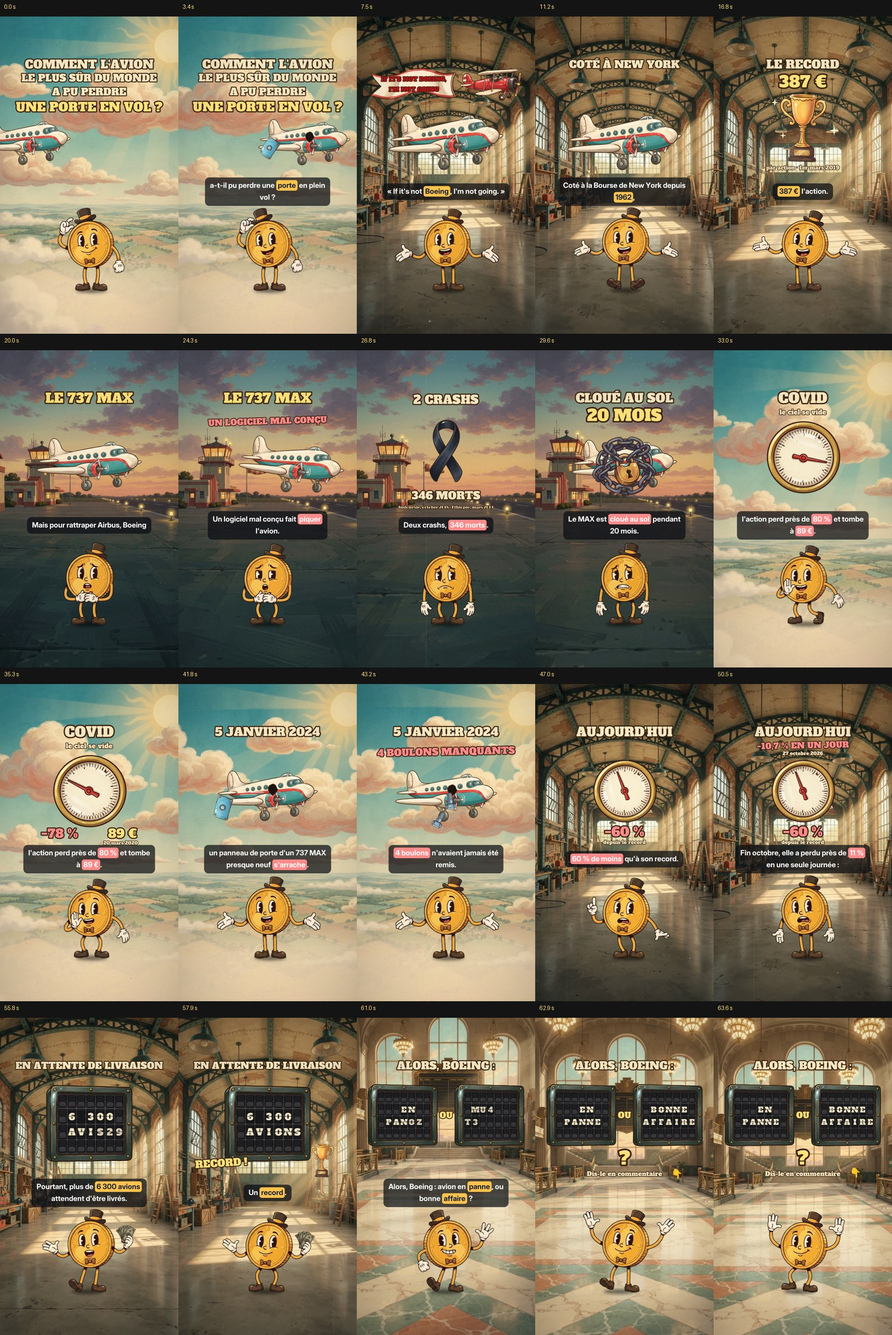
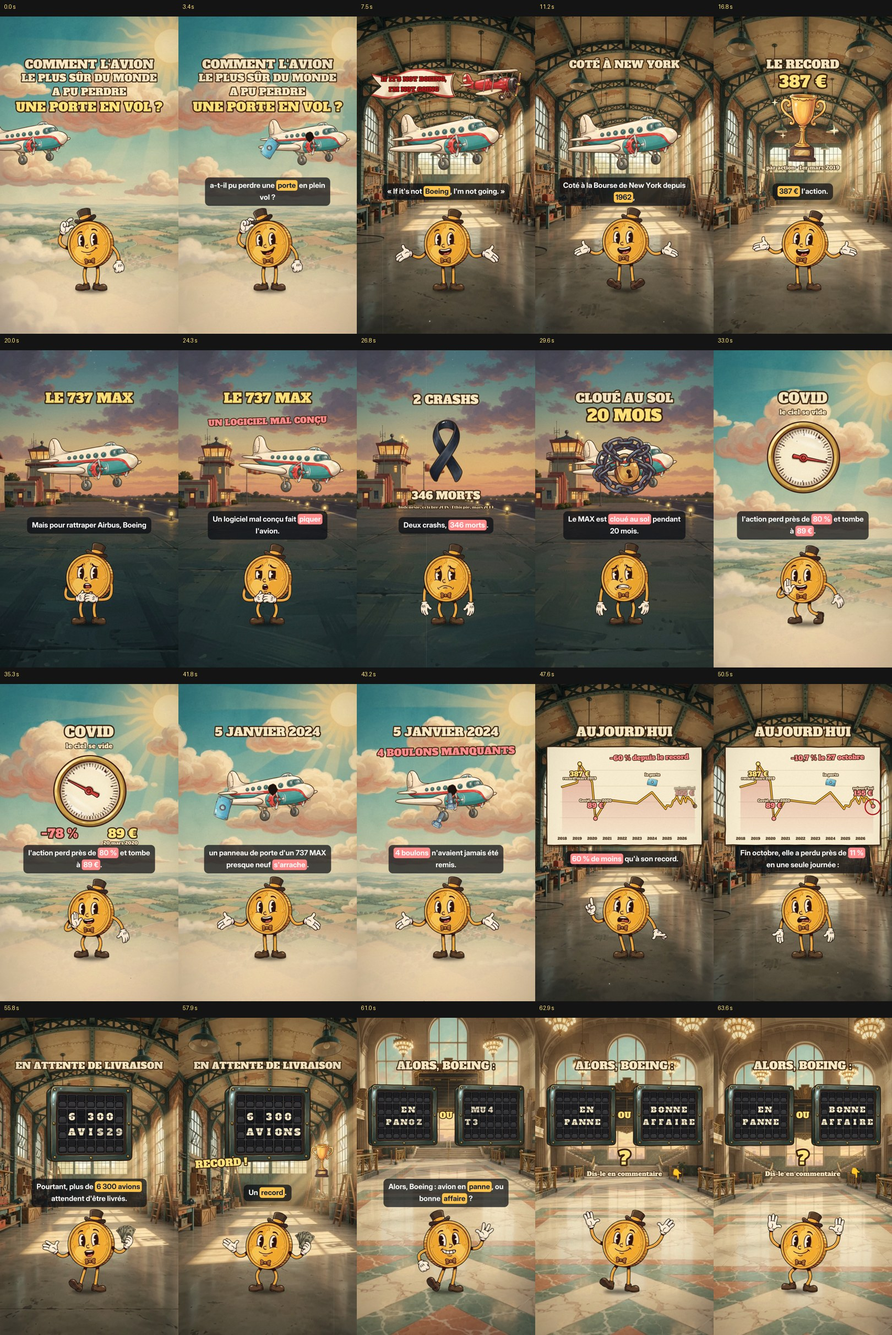
Boeing : courbe du cours 2017-2026 dans la scène « Aujourd'hui »
Claude-Session: https://claude.ai/code/session_01VFT2ZKYV9NwmFvCsfcTKi7

Changed region(s): [[0.5864, 0.495, 1.0, 0.7116]]

diff --git a/episodes/2026-11-10_boeing/video_col.py b/episodes/2026-11-10_boeing/video_col.py
@@ -277,19 +277,69 @@ def b_ciel(cv, c, t, k):
                 bx = hx-60+40*i-90*kk; by = hy+40+430*kk*kk
                 if by < 990: prop(c, 'boulon', bx, by, h=105, rot=5*kk+i, shadow=False, a=1-ent(by-900, 80))
             if t > 43.6: paint(c, "retirés à l'usine, jamais remis", 540, 900, 30, a=ent(t-43.6, .3), fam='Limelight')
+# cours de Boeing en dollars (clôtures non ajustées) : fins d'année 2017-2019 et 2020-2024, record et plus bas Covid, puis fins de mois 2025-2026
+M = lambda y, m, d=28: y+(m-1)/12+(d-1)/365
+BA = [(M(2017, 12), 294.91), (M(2018, 12), 322.50), (M(2019, 3, 1), 440.62), (M(2019, 12), 325.76), (M(2020, 3, 20), 95.01), (M(2020, 12), 214.06),
+      (M(2021, 12), 201.32), (M(2022, 12), 190.49), (M(2023, 12), 260.66), (M(2024, 11), 155.44), (M(2024, 12), 177.00)]
+BA += [(M(2025, m), v) for m, v in enumerate([176.52, 174.63, 170.55, 183.24, 207.32, 209.53, 221.84, 234.68, 215.83, 201.02, 189.00, 217.12], 1)]
+BA += [(M(2026, m), v) for m, v in enumerate([233.72, 227.53, 199.03, 229.03, 231.15, 216.47, 216.14, 207.78, 186.05], 1)]
+BA += [(M(2026, 10, 26), 188.31), (M(2026, 10, 27), 168.18), (M(2026, 10, 30), 171.55), (M(2026, 11, 6), 173.40)]
+CX0, CX1, CY0, CY1 = 150, 975, 455, 905
+def cxy(d, v): return CX0+(d-2017.85)/(2026.95-2017.85)*(CX1-CX0), CY1-v/470*(CY1-CY0)
+def ba_at(d):
+    for (d0, v0), (d1, v1) in zip(BA, BA[1:]):
+        if d0 <= d <= d1: return v0+(v1-v0)*(d-d0)/(d1-d0)
+    return BA[-1][1]
+def chart(c, t, t0, dx=0.0):
+    """carte de papier : la courbe du cours se trace de fin 2017 à aujourd'hui, avec les repères de l'histoire"""
+    k = t-t0
+    if k <= 0: return
+    sc = back(k/.4); c.save(); c.translate(540+dx, 680); c.scale(sc, sc); c.translate(-540, -680)
+    rng = np.random.default_rng(int(t*12)); c.new_path(); x0, y0, x1, y1 = 70, 380, 1010, 975
+    pts = [(x0+(x1-x0)*i/20, y0+rng.normal(0, 1)) for i in range(21)]+[(x1+rng.normal(0, 1), y0+(y1-y0)*i/12) for i in range(1, 13)]
+    pts += [(x1-(x1-x0)*i/20, y1+rng.normal(0, 1)) for i in range(1, 21)]+[(x0+rng.normal(0, 1), y1-(y1-y0)*i/12) for i in range(1, 12)]
+    c.move_to(pts[0][0]+10, pts[0][1]+14); [c.line_to(p[0]+10, p[1]+14) for p in pts[1:]]; c.close_path(); col(c, '000000', .35); c.fill()
+    c.move_to(*pts[0]); [c.line_to(*p) for p in pts[1:]]; c.close_path(); col(c, 'F7ECCF'); c.fill_preserve(); c.set_line_width(7); col(c, BROWN); c.stroke()
+    for v in (100, 200, 300, 400):                                   # graduations discrètes
+        y = cxy(2018, v)[1]; c.move_to(CX0, y); c.line_to(CX1, y); c.set_line_width(2); col(c, 'C9B48A', .6); c.stroke()
+    for yr in range(2018, 2027):
+        x = cxy(yr, 0)[0]; c.select_font_face('Alfa Slab One', 0, 0); c.set_font_size(22); e = c.text_extents(str(yr))
+        c.move_to(x-e.x_advance/2, CY1+38); c.show_text(str(yr)) if False else None
+        c.move_to(x-e.x_advance/2, CY1+38); c.text_path(str(yr)); col(c, BROWN, .85); c.fill()
+    dend = 2017.85+(2026.86-2017.85)*inout(k/2.9)                    # la courbe avance à vitesse régulière dans le temps
+    path = [cxy(d, v) for d, v in BA if d <= dend]+[cxy(dend, ba_at(dend))]
+    c.move_to(path[0][0], CY1); [c.line_to(*p) for p in path]; c.line_to(path[-1][0], CY1); c.close_path()
+    g = cairo.LinearGradient(0, CY0, 0, CY1); g.add_color_stop_rgba(0, .70, .09, .11, .30); g.add_color_stop_rgba(1, .70, .09, .11, .04); c.set_source(g); c.fill()
+    for wdt, colr in ((13, BROWN), (7, 'F2B82E')):
+        c.move_to(*path[0]); [c.line_to(*p) for p in path]; c.set_line_width(wdt); c.set_line_join(cairo.LINE_JOIN_ROUND); c.set_line_cap(cairo.LINE_CAP_ROUND); col(c, colr); c.stroke()
+    c.arc(*path[-1], 11, 0, 2*math.pi); col(c, 'FFF6C8'); c.fill_preserve(); c.set_line_width(4); col(c, BROWN); c.stroke()
+    def mark(d, v, lab, sub, colr, dy, tt):
+        if dend < d or t < tt: return
+        x, y = cxy(d, v); u = ent(t-tt, .3)
+        c.arc(x, y, 12*u, 0, 2*math.pi); col(c, colr); c.fill_preserve(); c.set_line_width(4); col(c, BROWN); c.stroke()
+        c.move_to(x, y+dy*.25); c.line_to(x, y+dy*.62); c.set_line_width(3); col(c, BROWN, u); c.stroke()
+        lx = min(x, 905)
+        paint(c, lab, lx, y+dy, 40, colr, a=u)
+        if sub: paint(c, sub, lx, y+dy+(26 if dy > 0 else -30), 21, CREAM, a=u)
+    D = lambda d: t0+2.9*0+(d-2017.85)/(2026.86-2017.85)*2.9
+    mark(M(2019, 3, 1), 440.62, f"387{NB}€", "record, mars 2019", YEL, 62, t0+.45)
+    mark(M(2020, 3, 20), 95.01, f"89{NB}€", "Covid, mars 2020", PINK, -78, t0+.75)
+    if dend > 2024.02 and t > t0+1.6:
+        x, y = cxy(2024.02, ba_at(2024.02)); prop(c, 'porte', x, y-62, h=56, k=t-t0-1.6, rot=-.2, shadow=False)
+        paint(c, "la porte", x, y-110, 22, CREAM, a=ent(t-t0-1.7, .3))
+    mark(M(2026, 11, 6), 173.40, f"155{NB}€", "aujourd'hui", PINK, -78, t0+2.95)
+    c.restore()
 def b_today(cv, c, t, k):
     if t < 54.2:
         out = ease((t-53.6)/.55) if t > 53.6 else 0
         title(c, "AUJOURD'HUI", t, 44.4, 290, 76, t1=53.5)
-        pct = 22+(39.4-22)*inout((t-45.0)/1.4) if t > 45.0 else 22
-        if t > 48.4: pct = 39.4+4.4*(1-inout((t-48.6)/.8)) if t < 49.4 else 39.4
-        alti(c, 540-out*1100, 650, 380, pct, t-44.6, t, shake=1 if 48.6 < t < 49.5 else 0)
-        if t > 46.3: pop_text(c, f"−60{NB}%", 540-out*1100, 895, 76, t, 46.3, PINK)
-        if t > 46.8: paint(c, "depuis le record", 540-out*1100, 958, 30, a=ent(t-46.8, .3)*(1-out))
+        chart(c, t, 44.6, dx=-out*1100)
+        if t > 46.3: pop_text(c, f"−60{NB}% depuis le record", 690-out*1100, 445, 40, t, 46.3, PINK, rot=-.02, a=1-ent(t-48.3, .25))
         if t > 48.4:
-            pop_text(c, f"−10,7{NB}% EN UN JOUR", 540-out*1100, 372, 50, t, 48.4, PINK, rot=-.02)
-            paint(c, "27 octobre 2026", 540-out*1100, 420, 28, a=ent(t-48.7, .3))
-        if t > 52.0: pop_text(c, "LIVRAISONS EN RETARD", 540-out*1100, 650, 50, t, 52.0, PINK, rot=-.06)
+            x, y = cxy(M(2026, 10, 27), 168.18); u = ent(t-48.4, .35); x -= out*1100
+            c.save(); c.arc(x, y, 46*u, 0, 2*math.pi); c.set_line_width(7); col(c, RED); c.stroke(); c.restore()
+            pop_text(c, f"−10,7{NB}% le 27 octobre", 690-out*1100, 445, 40, t, 48.45, PINK, rot=-.02)
+        if t > 52.0: pop_text(c, "LIVRAISONS EN RETARD", 540-out*1100, 640, 50, t, 52.0, PINK, rot=-.06)
     else:
         title(c, "EN ATTENTE DE LIVRAISON", t, 53.7, 290, 56)
         board(c, 540, 640, 470, ["", f"6{NB}300", "AVIONS", ""], t, 54.3, k=t-53.9)
@@ -334,7 +384,7 @@ def events():
     ev += [(2.98, 'crash'), (4.7, 'swish'), (9.0, 'thud'), (11.6, 'impact'), (12.8, 'thud'), (12.9, 'tadaa'), (15.6, 'tick'), (16.5, 'glint'),
            (18.0, 'thud'), (18.2, 'whoosh'), (22.4, 'swish'), (23.95, 'riser'), (27.6, 'thud'), (28.3, 'crash'), (29.25, 'impact'),
            (30.3, 'thud'), (32.7, 'crash'), (33.9, 'impact'), (34.6, 'impact'), (35.8, 'thud'), (36.0, 'whoosh'), (41.28, 'crash'), (42.15, 'swish'),
-           (44.4, 'thud'), (46.3, 'impact'), (48.4, 'crash'), (52.0, 'bonk'), (53.7, 'thud'), (57.3, 'tadaa'), (58.5, 'thud'), (60.2, 'pop'), (61.9, 'impact')]
+           (44.4, 'thud'), (44.6, 'swish'), (45.1, 'glint'), (45.4, 'crash'), (46.3, 'impact'), (47.5, 'tick'), (48.4, 'crash'), (52.0, 'bonk'), (53.7, 'thud'), (57.3, 'tadaa'), (58.5, 'thud'), (60.2, 'pop'), (61.9, 'impact')]
     ev += [(42.3+.32*i+.55, 'tick') for i in range(4)]
     for (t0, n) in ((54.3, 12), (59.5, 7), (60.5, 12)): ev += [(t0+.12*i, 'click') for i in range(n)]
     return sorted(ev)

diff --git a/episodes/2026-11-10_boeing/sources.md b/episodes/2026-11-10_boeing/sources.md
@@ -11,4 +11,7 @@
 - Plus bas Covid : clôture de 95,01 $ le 20 mars 2020 (Macrotrends, plus bas de 2020 ; ChartRow, creux le 20/03/2020). Le 18/03/2020 l'action clôturait à 101,89 $ (StatMuse).
 - Conversions au taux de référence BCE : 1,1383 $ pour 1 € le 1/03/2019 (Banca d'Italia), soit 440,62 $ = 387 € ; 1,0707 $ le 20/03/2020 (PoundSterlingLive, série BCE), soit 95,01 $ = 89 €.
 
+- Courbe du cours (en dollars, non ajusté) : clôtures de fin d'année 2017-2024 (Digrin, prix réels, https://www.digrin.com/stocks/detail/BA/price), record du 1/03/2019 et plus bas du 20/03/2020, clôtures mensuelles de novembre 2024 à octobre 2026 (StatMuse), séances des 26, 27 et 30/10 et 6/11/2026 (StockAnalysis). Entre 2020 et 2023, la courbe relie les clôtures annuelles : c'est un tracé simplifié.
+- Aujourd'hui : 173,40 $ le 6/11/2026, au taux BCE de 1,1165 $ pour 1 € (BCE, https://www.ecb.europa.eu/stats/policy_and_exchange_rates/euro_reference_exchange_rates/html/eurofxref-graph-usd.en.html), soit 155 €.
+
 À vérifier le jour de la publication : le cours de clôture du 9/11 (le −60 % peut bouger d'un ou deux points).
